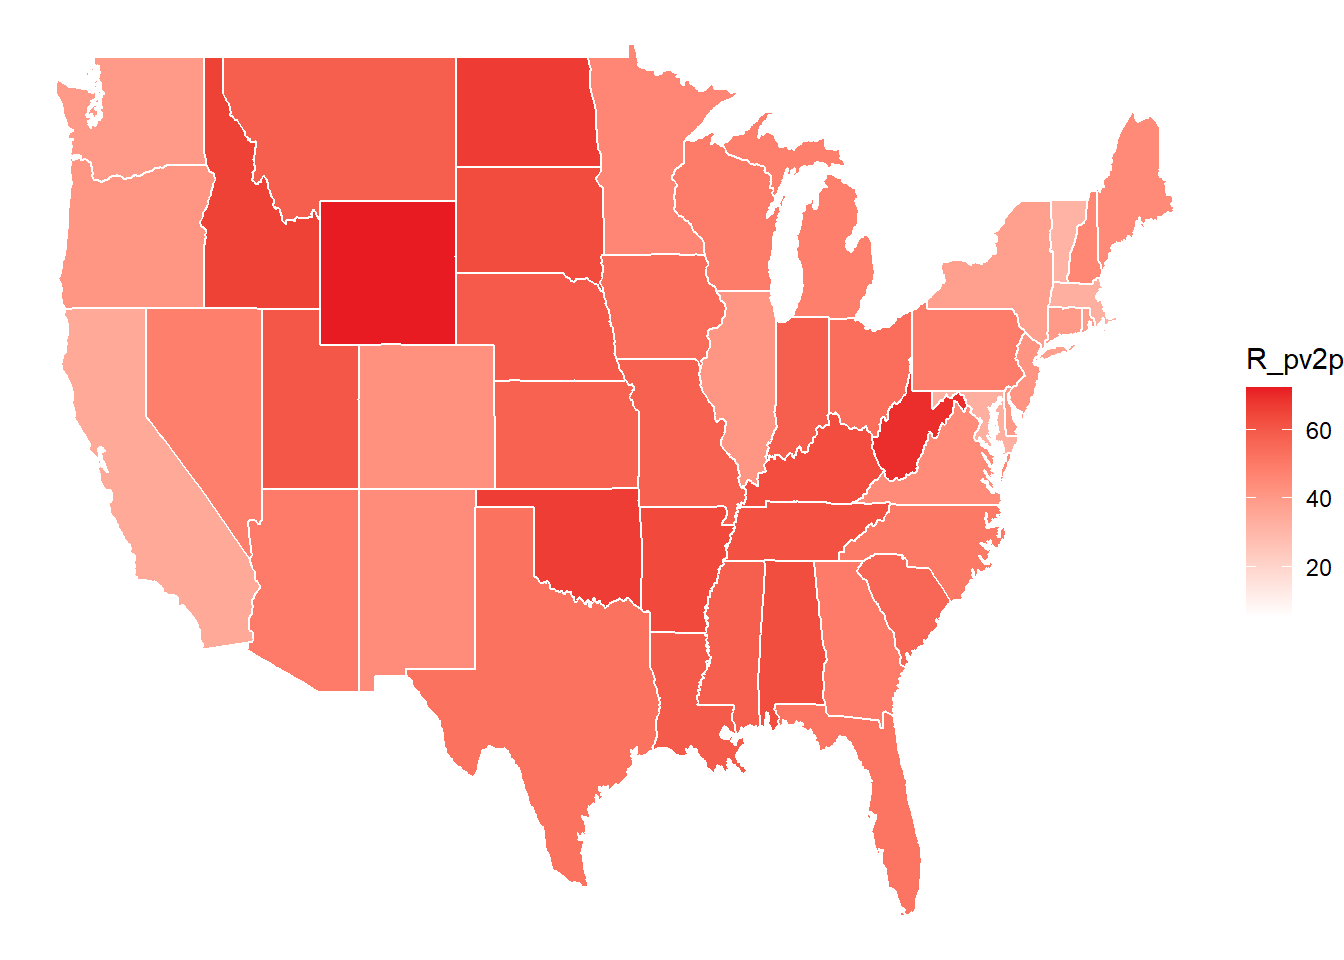
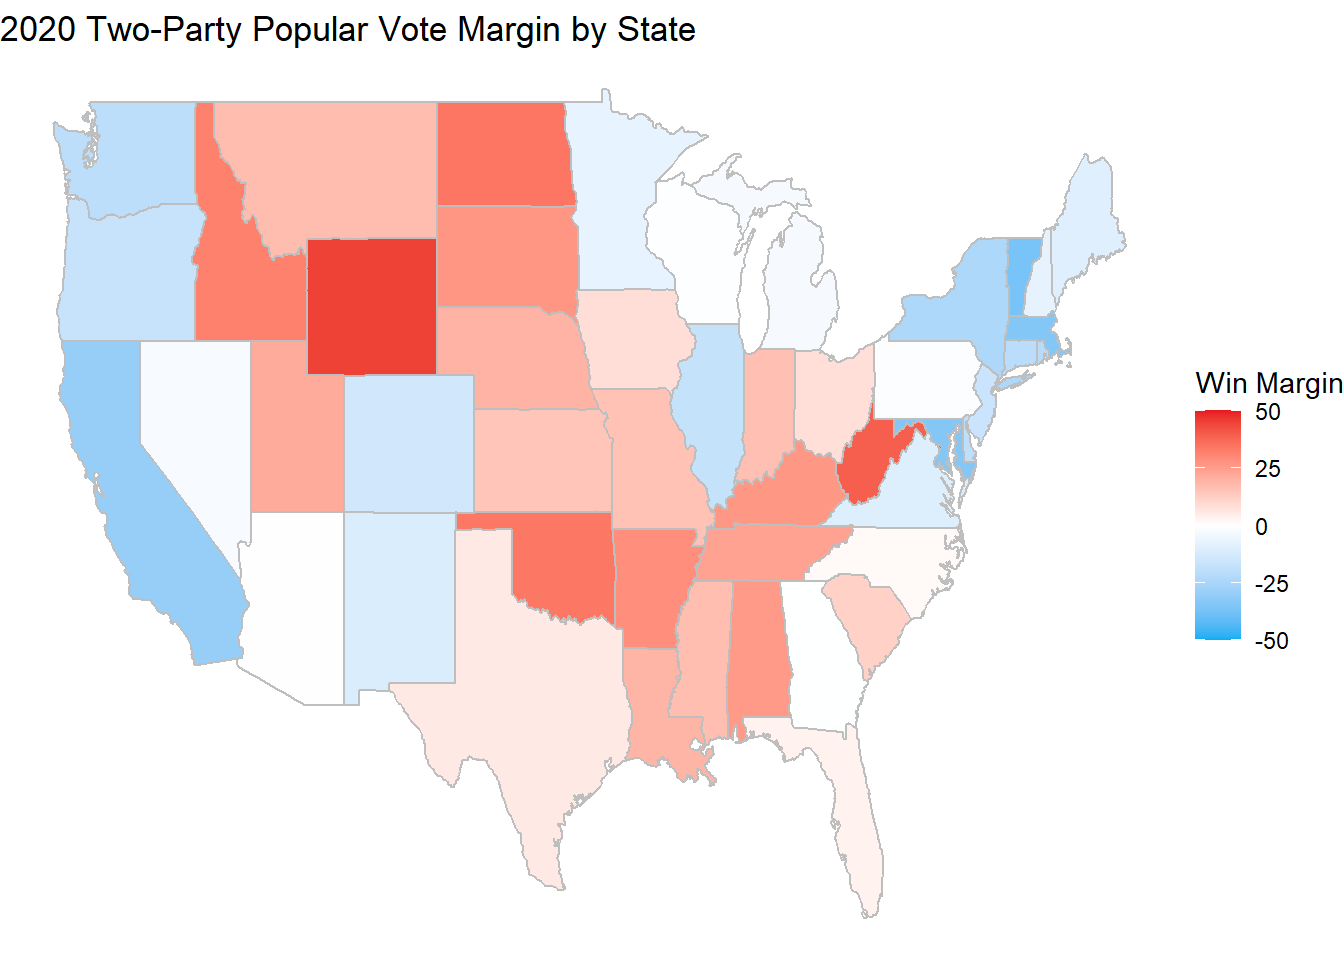
minor map edits

diff --git a/public/post/2024/09/05/testing-blog-upload/index.html b/public/post/2024/09/05/testing-blog-upload/index.html
@@ -35,7 +35,7 @@
 
 <main>
 <h2 id="general-exploration">General Exploration</h2>
-<p>This is my first blog post, for the week of September 2nd. The primary method of prediction for this week is a model based on the results of the past two presidential elections, 2016 and 2020.</p>
+<p>This is my first blog post, for the week of September 2nd. The primary method of prediction for this week is a simple model based on the results of the past two presidential elections, 2016 and 2020.</p>
 <p>Table: <span id="tab:unnamed-chunk-1"></span>Table 1: Presidential races won by each party since 1948</p>
 <table>
 <thead>
@@ -56,52 +56,27 @@
 </tbody>
 </table>
 <p>As shown in the table, Democratic presidential candidates have won the popular vote in 11 of the past 19 elections, and Republican candidates 8. Another takeaway from this exploratory table is how little data there actually is to train models on. There have only been 19 presidential elections since 1948, which means that the impacts of outliers in the data may be extra large.</p>
-<p>The graph below maps the two-party vote share for the Democratic and Republic parties since 1948.</p>
+<p>The graph below maps the two-party vote share for the Democratic and Republican parties since 1948.</p>
 <img src="https://example.org/post/2024/09/05/testing-blog-upload/index_files/figure-html/bar chart-1.png" width="672" />
-<h2 id="2020-state-maps-and-predictions-based-on-them">2020 State Maps and Predictions Based on Them</h2>
-<pre><code class="language-r">states_map &lt;- map_data(&quot;state&quot;)
-state_data &lt;- 
-  state_data |&gt;
-  mutate(region = tolower(state))
-
-pv_map &lt;- 
-  state_data |&gt;
-  filter(year == 2020) |&gt;
-  left_join(states_map, by = &quot;region&quot;)
-
-pv_map |&gt; 
-  ggplot(aes(long, lat, group = group)) +
-  geom_polygon(aes(fill = R_pv2p), color = &quot;white&quot;)+
-  scale_fill_gradient(low = &quot;white&quot;, high = rep_red) +
-  theme_void()
-</code></pre>
-<img src="https://example.org/post/2024/09/05/testing-blog-upload/index_files/figure-html/unnamed-chunk-2-1.png" width="672" />
-<pre><code class="language-r">pv_map_winner &lt;- 
-  pv_map |&gt;
-  mutate(winner = ifelse(R_pv &gt; D_pv, &quot;republican&quot;, &quot;democrat&quot;))
-
-pv_map_winner |&gt;  
-  ggplot(aes(long, lat, group = group)) +
-  geom_polygon(aes(fill = winner), color = &quot;white&quot;) +
-  scale_fill_manual(values=dem_rep) +
-  theme_void()
-</code></pre>
-<img src="https://example.org/post/2024/09/05/testing-blog-upload/index_files/figure-html/unnamed-chunk-3-1.png" width="672" />
+<p>Two-party vote share as a statistic measures the percentage of the vote that either party gets among only voters who voted for the Democratic or Republican candidate (and as such does not include third part votes). A key takeaway from this graph is that the difference in vote shares has narrowed since the 1990s; elections have become a lot closer.</p>
+<h2 id="2020-electoral-maps">2020 Electoral Maps</h2>
+<img src="https://example.org/post/2024/09/05/testing-blog-upload/index_files/figure-html/map of popular vote winner-1.png" width="672" />
 <pre><code class="language-r">pv_map_margin &lt;- 
   pv_map_winner |&gt;
   mutate(margin = R_pv2p-D_pv2p)
 
 pv_map_margin |&gt;
   ggplot(aes(long, lat, group = group)) +
-  geom_polygon(aes(fill = margin), color = &quot;black&quot;) +
+  geom_polygon(aes(fill = margin), color = &quot;gray&quot;) +
   scale_fill_gradient2(high = rep_red,
                        mid = &quot;white&quot;,
-                       name = &quot;win margin&quot;,
+                       name = &quot;Win Margin&quot;,
                        low = dem_blue,
                        breaks = c(-50,-25,0,25,50),limits=c(-50,50)) +
-  theme_void()
+  labs(title = &quot;2020 Two-Party Popular Vote Margin by State&quot;) +
+  my_map_theme 
 </code></pre>
-<img src="https://example.org/post/2024/09/05/testing-blog-upload/index_files/figure-html/unnamed-chunk-4-1.png" width="672" />
+<img src="https://example.org/post/2024/09/05/testing-blog-upload/index_files/figure-html/unnamed-chunk-2-1.png" width="672" />
 <pre><code class="language-r">state_2p &lt;- 
   state_data |&gt; 
   filter(year == 2020) |&gt;
@@ -114,17 +89,17 @@ pv_map_margin |&gt;
 state_2p |&gt;
   left_join(states_map, by = &quot;region&quot;) |&gt;
   ggplot(aes(long, lat, group = group)) +
-  geom_polygon(aes(fill = margin_2024), color = &quot;black&quot;) +
-  ggtitle(&quot;2024 Presidential Forecast (Simplified Electoral Cycle Model)&quot;) + 
+  geom_polygon(aes(fill = margin_2024), color = &quot;grey&quot;) +
+  labs(title = &quot;Simple 2024 Election Forecast&quot;) + 
   scale_fill_gradient2(high = rep_red, 
                        mid = &quot;white&quot;,
-                       name = &quot;win margin&quot;,
+                       name = &quot;Win Margin&quot;,
                        low = dem_blue, 
                        breaks = c(-50,-25,0,25,50), 
                        limits=c(-50,50)) + 
-  theme_void()
+  my_map_theme
 </code></pre>
-<img src="https://example.org/post/2024/09/05/testing-blog-upload/index_files/figure-html/unnamed-chunk-5-1.png" width="672" />
+<img src="https://example.org/post/2024/09/05/testing-blog-upload/index_files/figure-html/unnamed-chunk-3-1.png" width="672" />
 
 </main>
 

diff --git a/content/post/2024-09-03-testing-blog-upload/index.md b/content/post/2024-09-03-testing-blog-upload/index.md
@@ -10,7 +10,8 @@ tags: [president]
 
 ## General Exploration
 
-This is my first blog post, for the week of September 2nd. The primary method of prediction for this week is a model based on the results of the past two presidential elections, 2016 and 2020. 
+This is my first blog post, for the week of September 2nd. The primary method of prediction for this week is a simple model based on the results of the past two presidential elections, 2016 and 2020. 
+
 
 
 
@@ -25,46 +26,20 @@ Table: <span id="tab:unnamed-chunk-1"></span>Table 1: Presidential races won by 
 
 As shown in the table, Democratic presidential candidates have won the popular vote in 11 of the past 19 elections, and Republican candidates 8. Another takeaway from this exploratory table is how little data there actually is to train models on. There have only been 19 presidential elections since 1948, which means that the impacts of outliers in the data may be extra large. 
 
-The graph below maps the two-party vote share for the Democratic and Republic parties since 1948. 
+The graph below maps the two-party vote share for the Democratic and Republican parties since 1948. 
 
 <img src="{{< blogdown/postref >}}index_files/figure-html/bar chart-1.png" width="672" />
 
-## 2020 State Maps and Predictions Based on Them
+Two-party vote share as a statistic measures the percentage of the vote that either party gets among only voters who voted for the Democratic or Republican candidate (and as such does not include third part votes). A key takeaway from this graph is that the difference in vote shares has narrowed since the 1990s; elections have become a lot closer. 
+
+## 2020 Electoral Maps
 
 
-``` r
-states_map <- map_data("state")
-state_data <- 
-  state_data |>
-  mutate(region = tolower(state))
 
-pv_map <- 
-  state_data |>
-  filter(year == 2020) |>
-  left_join(states_map, by = "region")
 
-pv_map |> 
-  ggplot(aes(long, lat, group = group)) +
-  geom_polygon(aes(fill = R_pv2p), color = "white")+
-  scale_fill_gradient(low = "white", high = rep_red) +
-  theme_void()
-```
+<img src="{{< blogdown/postref >}}index_files/figure-html/map of popular vote winner-1.png" width="672" />
 
-<img src="{{< blogdown/postref >}}index_files/figure-html/unnamed-chunk-2-1.png" width="672" />
 
-``` r
-pv_map_winner <- 
-  pv_map |>
-  mutate(winner = ifelse(R_pv > D_pv, "republican", "democrat"))
-
-pv_map_winner |>  
-  ggplot(aes(long, lat, group = group)) +
-  geom_polygon(aes(fill = winner), color = "white") +
-  scale_fill_manual(values=dem_rep) +
-  theme_void()
-```
-
-<img src="{{< blogdown/postref >}}index_files/figure-html/unnamed-chunk-3-1.png" width="672" />
 
 ``` r
 pv_map_margin <- 
@@ -73,16 +48,17 @@ pv_map_margin <-
 
 pv_map_margin |>
   ggplot(aes(long, lat, group = group)) +
-  geom_polygon(aes(fill = margin), color = "black") +
+  geom_polygon(aes(fill = margin), color = "gray") +
   scale_fill_gradient2(high = rep_red,
                        mid = "white",
-                       name = "win margin",
+                       name = "Win Margin",
                        low = dem_blue,
                        breaks = c(-50,-25,0,25,50),limits=c(-50,50)) +
-  theme_void()
+  labs(title = "2020 Two-Party Popular Vote Margin by State") +
+  my_map_theme 
 ```
 
-<img src="{{< blogdown/postref >}}index_files/figure-html/unnamed-chunk-4-1.png" width="672" />
+<img src="{{< blogdown/postref >}}index_files/figure-html/unnamed-chunk-2-1.png" width="672" />
 
 ``` r
 state_2p <- 
@@ -97,18 +73,18 @@ state_2p <-
 state_2p |>
   left_join(states_map, by = "region") |>
   ggplot(aes(long, lat, group = group)) +
-  geom_polygon(aes(fill = margin_2024), color = "black") +
-  ggtitle("2024 Presidential Forecast (Simplified Electoral Cycle Model)") + 
+  geom_polygon(aes(fill = margin_2024), color = "grey") +
+  labs(title = "Simple 2024 Election Forecast") + 
   scale_fill_gradient2(high = rep_red, 
                        mid = "white",
-                       name = "win margin",
+                       name = "Win Margin",
                        low = dem_blue, 
                        breaks = c(-50,-25,0,25,50), 
                        limits=c(-50,50)) + 
-  theme_void()
+  my_map_theme
 ```
 
-<img src="{{< blogdown/postref >}}index_files/figure-html/unnamed-chunk-5-1.png" width="672" />
+<img src="{{< blogdown/postref >}}index_files/figure-html/unnamed-chunk-3-1.png" width="672" />
 
 
 
